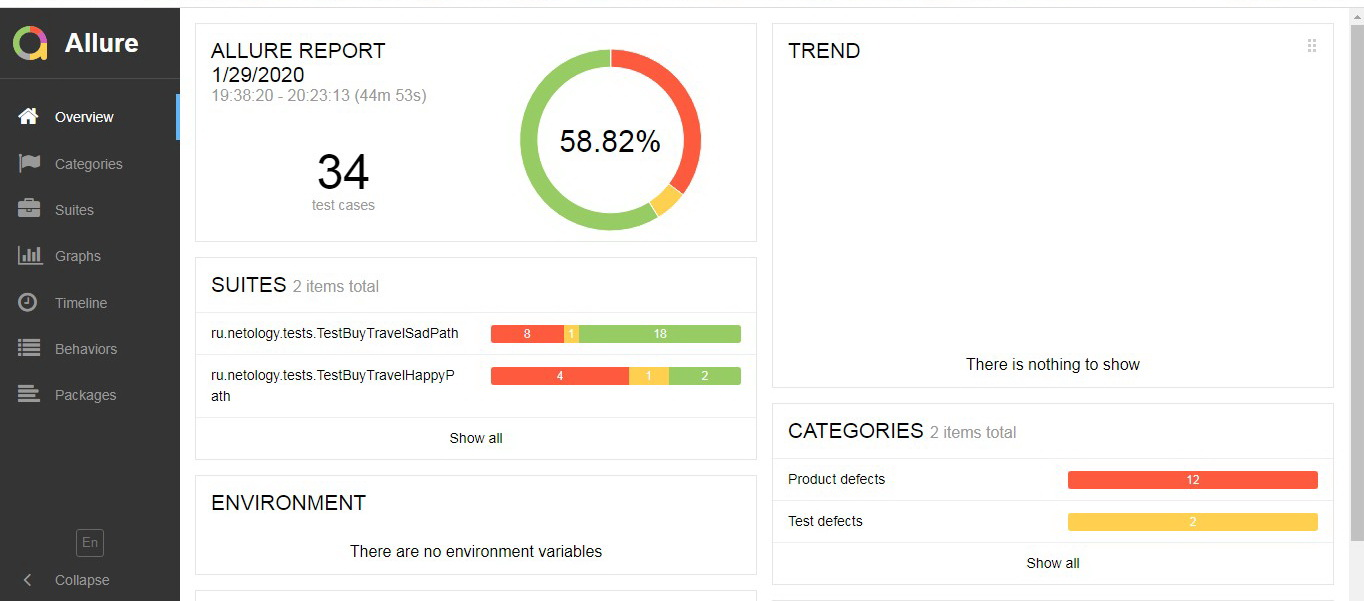
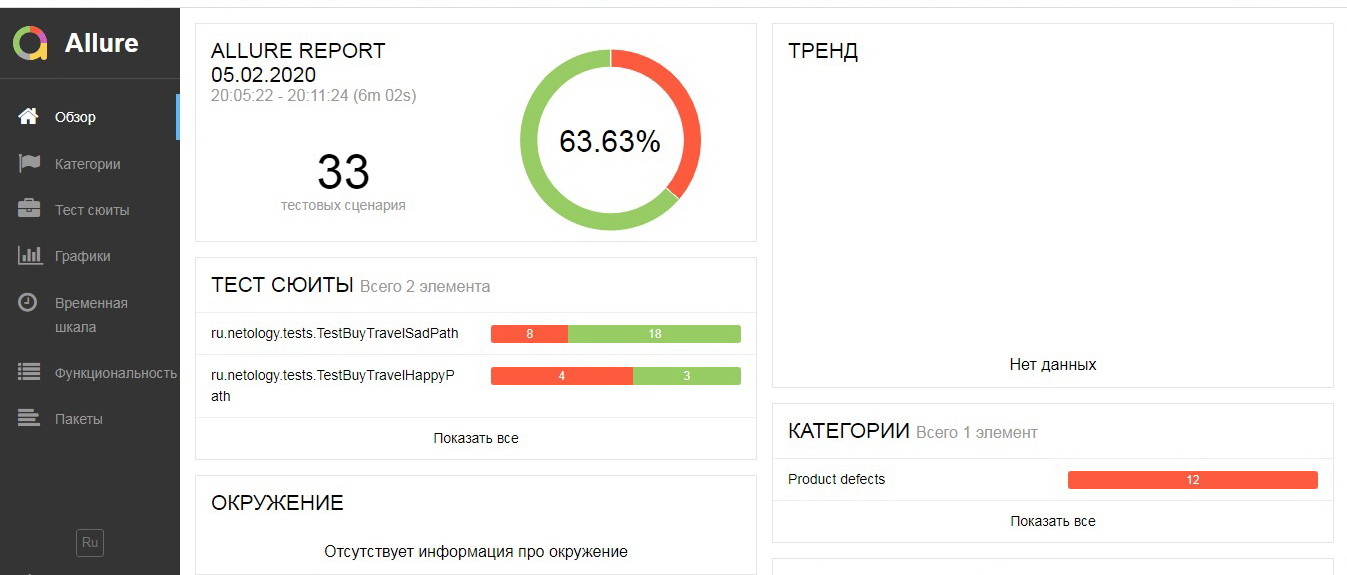
Тесты скорректированы

diff --git a/src/test/java/ru/netology/data/DataHelperDB.java b/src/test/java/ru/netology/data/DataHelperDB.java
@@ -12,6 +12,7 @@ import ru.netology.models.PaymentDataModel;
 import java.sql.Connection;
 import java.sql.DriverManager;
 import java.sql.SQLException;
+import java.util.concurrent.TimeUnit;
 
 import static org.junit.jupiter.api.Assertions.assertEquals;
 import static org.junit.jupiter.api.Assertions.assertNotNull;
@@ -39,15 +40,21 @@ public class DataHelperDB {
             "WHERE credit_request_entity.created IN (SELECT max(credit_request_entity.created) " +
             "FROM credit_request_entity);";
 
-    private static String checkPayment = "SELECT payment_entity.id, payment_entity.amount, payment_entity.created, " +
-            "payment_entity.status, payment_entity.transaction_id FROM payment_entity " +
-            "JOIN order_entity on transaction_id=payment_id;";
+    private static String checkRowOfCredit = "SELECT * FROM credit_request_entity WHERE created IN (SELECT max(created) " +
+            "FROM credit_request_entity);";
+    private static String checkRowOfOrder = "SELECT * FROM order_entity WHERE created IN (SELECT max(created) " +
+            "FROM order_entity);";
+    private static String checkRowOfPayment = "SELECT * FROM payment_entity WHERE created IN (SELECT max(created) " +
+            "FROM payment_entity);";
 
-    private static String checkCredit = "SELECT credit_request_entity.id, credit_request_entity.bank_id, " +
-            "credit_request_entity.created, credit_request_entity.status FROM credit_request_entity JOIN order_entity " +
-            "on credit_request_entity.bank_id = order_entity.credit_id;";
-
-    private static String checkOrder = "SELECT * FROM order_entity;";
+    private static String checkCreditID = "SELECT bank_id FROM credit_request_entity " +
+            "WHERE created IN (SELECT max(created) FROM credit_request_entity);";
+    private static String checkPaymentID = "SELECT transaction_id FROM payment_entity " +
+            "WHERE created IN (SELECT max(created) FROM payment_entity);";
+    private static String checkOrderIDByPayment = "SELECT payment_id FROM order_entity " +
+            "WHERE created IN (SELECT max(created) FROM order_entity);";
+    private static String checkOrderIDByCredit = "SELECT credit_id FROM order_entity " +
+            "WHERE created IN (SELECT max(created) FROM order_entity);";
 
     @Step("Соединение с БД")
     public static Connection getConnectionDB() {
@@ -92,48 +99,37 @@ public class DataHelperDB {
         return String.valueOf(order);
     }
 
-    @Step("Сверка со статусом 'APPROVED'. Раздел 'Купить'")
-    public static void verifyStatusWithApprovedBuy() throws SQLException {
-        val status = verifyOrderByPayment();
-        assertEquals("APPROVED", status);
-    }
-
-    @Step("Сверка со статусом 'DECLINED'. Раздел 'Купить'")
-    public static void verifyStatusWithDeclinedBuy() throws SQLException {
-        val status = verifyOrderByPayment();
-        assertEquals("DECLINED", status);
-    }
-
-    @Step("Сверка со статусом 'APPROVED'. Раздел 'Купить в кредит'")
-    public static void verifyStatusWithApprovedByCredit() throws SQLException {
-        val status = verifyOrderByPaymentByCredit();
-        assertEquals("APPROVED", status);
-    }
-
-    @Step("Сверка со статусом 'DECLINED'. Раздел 'Купить в кредит'")
-    public static void verifyStatusWithDeclinedByCredit() throws SQLException {
-        val status = verifyOrderByPaymentByCredit();
-        assertEquals("DECLINED", status);
+    @Step("Проверка наличия записей в таблице credit_request_entity")
+    public static void verifyCreditNotNull() throws SQLException {
+        val runner = new QueryRunner();
+        val orderData = runner.query(getConnectionDB(), checkRowOfOrder, new BeanHandler<>(OrderDataModel.class));
+        val creditData = runner.query(getConnectionDB(), checkRowOfCredit, new BeanHandler<>(CreditDataModel.class));
+        assertNotNull(orderData);
+        assertNotNull(creditData);
     }
 
     @Step("Проверка наличия записей в таблице payment_entity")
-    public static void verifyPayment() throws SQLException {
+    public static void verifyPaymentNotNull() throws SQLException {
         val runner = new QueryRunner();
-        val data = runner.query(getConnectionDB(), checkPayment, new BeanHandler<>(PaymentDataModel.class));
-        assertNotNull(data);
+        val orderData = runner.query(getConnectionDB(), checkRowOfOrder, new BeanHandler<>(OrderDataModel.class));
+        val paymentData = runner.query(getConnectionDB(), checkRowOfPayment, new BeanHandler<>(PaymentDataModel.class));
+        assertNotNull(orderData);
+        assertNotNull(paymentData);
     }
 
-    @Step("Проверка наличия записей в таблице credit_request_entity")
-    public static void verifyCredit() throws SQLException {
+    @Step("Сравнение внешних ключей в таблицах payment_entity и order_entity")
+    public static void comparisonIDPaymentAndOrder() throws SQLException {
         val runner = new QueryRunner();
-        val data = runner.query(getConnectionDB(), checkCredit, new BeanHandler<>(CreditDataModel.class));
-        assertNotNull(data);
+        val paymentData = runner.query(getConnectionDB(), checkPaymentID, new ScalarHandler<>());
+        val orderData = runner.query(getConnectionDB(), checkOrderIDByPayment, new ScalarHandler<>());
+        assertEquals(paymentData, orderData, "Payment and Order IDs are not equal");
     }
 
-    @Step("Проверка наличия записей в таблице order_entity")
-    public static void verifyOrder() throws SQLException {
+    @Step("Сравнение внешних ключей в таблицах credit_request_entity и order_entity")
+    public static void comparisonIDCreditAndOrder() throws SQLException {
         val runner = new QueryRunner();
-        val data = runner.query(getConnectionDB(), checkOrder, new BeanHandler<>(OrderDataModel.class));
-        assertNotNull(data);
+        val creditData = runner.query(getConnectionDB(), checkCreditID, new ScalarHandler<>());
+        val orderData = runner.query(getConnectionDB(), checkOrderIDByCredit, new ScalarHandler<>());
+        assertEquals(creditData, orderData, "Credit and Order IDs are not equal");
     }
 }

diff --git a/src/test/java/ru/netology/tests/TestBuyTravelHappyPath.java b/src/test/java/ru/netology/tests/TestBuyTravelHappyPath.java
@@ -2,6 +2,7 @@ package ru.netology.tests;
 
 import org.junit.jupiter.api.DisplayName;
 import org.junit.jupiter.api.Test;
+import ru.netology.data.AssertsInDataBase;
 import ru.netology.data.DataHelperCard;
 import ru.netology.data.DataHelperDB;
 import ru.netology.page.BuyingPage;
@@ -21,7 +22,7 @@ public class TestBuyTravelHappyPath extends TestBase {
         BuyingPage.setCardCVV(DataHelperCard.getCvc());
         BuyingPage.clickContinueButton();
         BuyingPage.checkMessageSuccessfully();
-        DataHelperDB.verifyStatusWithApprovedBuy();
+        AssertsInDataBase.verifyStatusWithApprovedBuy();
     }
 
     @Test
@@ -35,7 +36,7 @@ public class TestBuyTravelHappyPath extends TestBase {
         BuyingPage.setCardCVV(DataHelperCard.getCvc());
         BuyingPage.clickContinueButton();
         BuyingPage.checkMessageSuccessfully();
-        DataHelperDB.verifyStatusWithApprovedByCredit();
+        AssertsInDataBase.verifyStatusWithApprovedByCredit();
     }
 
     @Test
@@ -49,7 +50,7 @@ public class TestBuyTravelHappyPath extends TestBase {
         BuyingPage.setCardCVV(DataHelperCard.getCvc());
         BuyingPage.clickContinueButton();
         BuyingPage.checkMessageError();
-        DataHelperDB.verifyStatusWithDeclinedBuy();
+        AssertsInDataBase.verifyStatusWithDeclinedBuy();
     }
 
     @Test
@@ -63,14 +64,26 @@ public class TestBuyTravelHappyPath extends TestBase {
         BuyingPage.setCardCVV(DataHelperCard.getCvc());
         BuyingPage.clickContinueButton();
         BuyingPage.checkMessageError();
-        DataHelperDB.verifyStatusWithDeclinedByCredit();
+        AssertsInDataBase.verifyStatusWithDeclinedByCredit();
     }
 
     @Test
     @DisplayName("Проверка заполнения полей таблиц БД")
-    void verifyDB() throws SQLException {
-        DataHelperDB.verifyPayment();
-        DataHelperDB.verifyOrder();
-        DataHelperDB.verifyCredit();
+    void verifyDBNotNull() throws SQLException {
+        DataHelperDB.verifyPaymentNotNull();
+        DataHelperDB.verifyCreditNotNull();
+    }
+
+    @Test
+    @DisplayName("Проверка соединения таблиц по внешнему ключу")
+    void verifyDBId() throws SQLException {
+        DataHelperDB.comparisonIDPaymentAndOrder();
+        DataHelperDB.comparisonIDCreditAndOrder();
+    }
+
+    @Test
+    @DisplayName("Очистка БД")
+    void clearDB() throws SQLException {
+        DataHelperDB.clearDB();
     }
 }

diff --git a/src/test/java/ru/netology/data/AssertsInDataBase.java b/src/test/java/ru/netology/data/AssertsInDataBase.java
@@ -1,0 +1,36 @@
+package ru.netology.data;
+
+import io.qameta.allure.Step;
+import lombok.val;
+
+import java.sql.SQLException;
+
+import static org.junit.jupiter.api.Assertions.assertEquals;
+
+// Методы, вызывающие методы с запросами к БД
+public class AssertsInDataBase {
+
+    @Step("Сверка со статусом 'APPROVED'. Раздел 'Купить'")
+    public static void verifyStatusWithApprovedBuy() throws SQLException {
+        val status = DataHelperDB.verifyOrderByPayment();
+        assertEquals("APPROVED", status);
+    }
+
+    @Step("Сверка со статусом 'DECLINED'. Раздел 'Купить'")
+    public static void verifyStatusWithDeclinedBuy() throws SQLException {
+        val status = DataHelperDB.verifyOrderByPayment();
+        assertEquals("DECLINED", status);
+    }
+
+    @Step("Сверка со статусом 'APPROVED'. Раздел 'Купить в кредит'")
+    public static void verifyStatusWithApprovedByCredit() throws SQLException {
+        val status = DataHelperDB.verifyOrderByPaymentByCredit();
+        assertEquals("APPROVED", status);
+    }
+
+    @Step("Сверка со статусом 'DECLINED'. Раздел 'Купить в кредит'")
+    public static void verifyStatusWithDeclinedByCredit() throws SQLException {
+        val status = DataHelperDB.verifyOrderByPaymentByCredit();
+        assertEquals("DECLINED", status);
+    }
+}

diff --git a/src/test/java/ru/netology/tests/TestBase.java b/src/test/java/ru/netology/tests/TestBase.java
@@ -7,8 +7,6 @@ import org.junit.jupiter.api.BeforeAll;
 import ru.netology.data.DataHelperDB;
 import ru.netology.page.BuyingPage;
 
-import java.sql.SQLException;
-
 public class TestBase {
     protected static BuyingPage buyingPage;
 
@@ -19,10 +17,8 @@ public class TestBase {
     }
 
     @AfterAll
-    protected static void tearDownAll() throws SQLException {
-        SelenideLogger.removeListener("allure");
-        DataHelperDB.getConnectionDB();
-        DataHelperDB.clearDB();
+    protected static void tearDownAll() {
         DataHelperDB.closeConnectionDB();
+        SelenideLogger.removeListener("allure");
     }
 }

diff --git a/src/test/java/ru/netology/page/BuyingPage.java b/src/test/java/ru/netology/page/BuyingPage.java
@@ -78,12 +78,12 @@ public class BuyingPage {
 
     @Step("Сообщение об успешной операции")
     public static void checkMessageSuccessfully() {
-        messageSuccessfully.waitUntil(visible, 60000);
+        messageSuccessfully.waitUntil(visible, 75000);
     }
 
     @Step("Сообщение об ошибке при совершении операции")
     public static void checkMessageError() {
-        messageError.waitUntil(visible, 60000);
+        messageError.waitUntil(visible, 75000);
     }
 
     @Step("Сообщение о неверно заполненном поле")

diff --git a/src/test/java/ru/netology/data/DataHelperCard.java b/src/test/java/ru/netology/data/DataHelperCard.java
@@ -2,6 +2,7 @@ package ru.netology.data;
 
 import lombok.*;
 
+// корректные данные
 @Value
 public class DataHelperCard {
     private static String month = "08";

diff --git a/documents/Report.md b/documents/Report.md
@@ -20,11 +20,11 @@
 
 ## Количество тест-кейсов
 
-* Всего: 34
-* Успешных: 20 *(58,82%)*
-* Неуспешных: 14 *(41,18%)*
+* Всего: 33
+* Успешных: 21 *(63,63%)*
+* Неуспешных: 12 *(36,37%)*
 
-![](https://raw.githubusercontent.com/shpilkaQA/diplom/master/documents/pic/allure_1.jpg)
+![](/documents/pic/allure_1.jpg)
 
 ## Общие рекомендации
 

diff --git a/documents/Summary.md b/documents/Summary.md
@@ -2,8 +2,8 @@
 
 ## Что было запланировано и что было сделано
 
-* Запланировано: 34 сценария
-* Сделано: 34 сценария
+* Запланировано: 33 сценария
+* Сделано: 33 сценария
 
 ## Причины, по которым что-то не было сделано
 --
